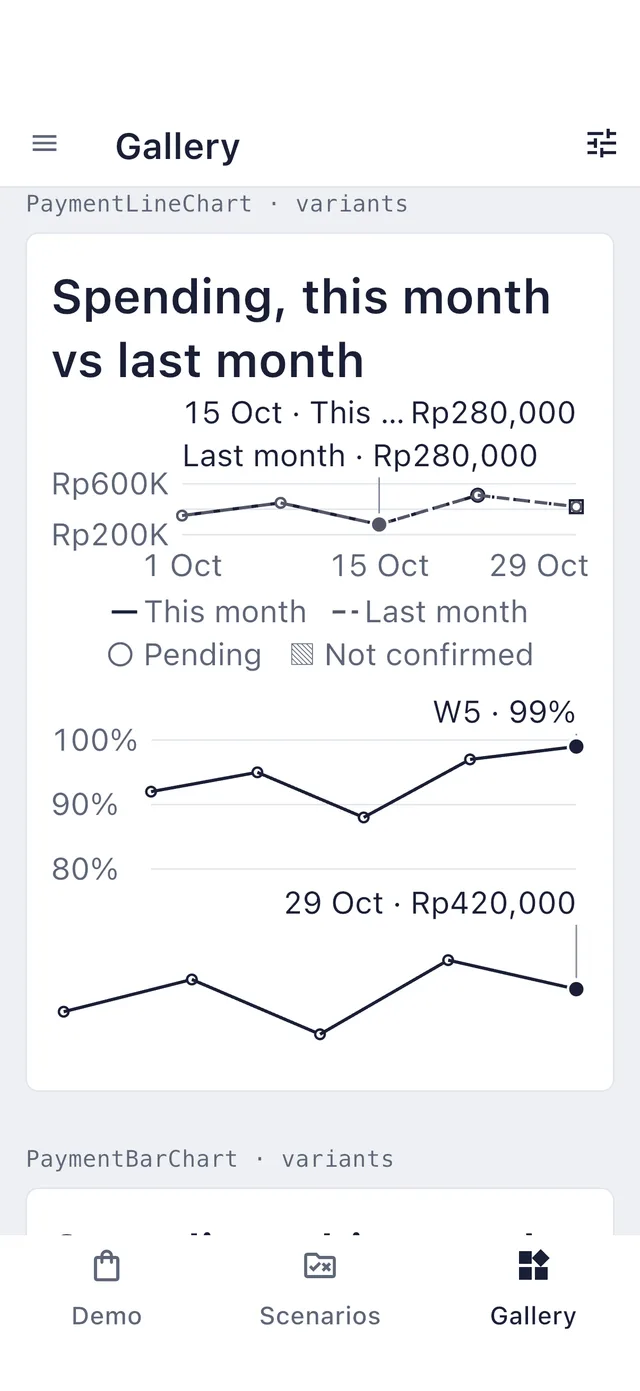
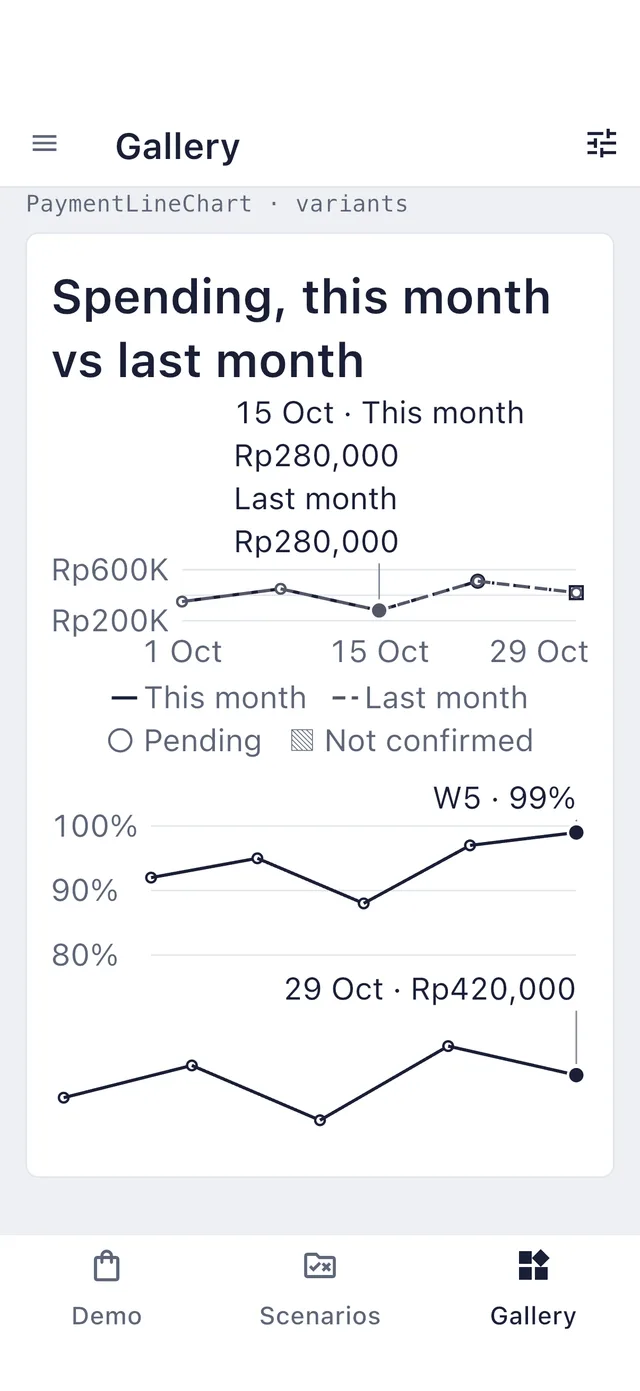
docs: D58 note, changelog and chart captures for the stacked readout (#78)
Records the stacked readout and the ChartModule slot growth (a deliberate
exception to #58-3) in decisions.md under a new UI review follow-ups
subsection, adds the changelog entry and its site mirror, updates the
line, bar and ChartModule pages, and retakes the line and bar chart
variants captures (light, dark, 200) on iPhone 16 Pro.

diff --git a/docs/decisions.md b/docs/decisions.md
@@ -603,3 +603,5 @@ Problems found in the review are recorded as issues before any work: #45–#50, 
 - **D59/D62 implementation note: one footer rule for the action bar (#79).** The P7c sweep showed the iPad checkout's "Tinjau pembayaran" full width while every other pinned footer put its hug buttons at the end edge. `ViewFooter`'s test moved into an internal `footerStacks(context, width)` in `view_frame.dart` (stack when the footer is narrower than 600 dp or text is large), and `ViewFooter` calls it unchanged. The width is the footer's available content width after its padding, not the window: with the default 16 dp gutters a 600–631 dp window still stacks and hugging starts at a 632 dp window, the same as `ViewFooter`. `PaymentActionBar` asks it only when it has no `total`, from a `LayoutBuilder` inside `PinnedFooter`, so the width it tests is the 640 dp column, not the window. Stacked, the action is laid out as before. Wide, it sits at `AlignmentDirectional.centerEnd`: a `PaymentButton` through `hugButton` (as `ViewFooter` does, keeping its key and the 112 dp minimum), any other widget at its intrinsic width with the same 112 dp minimum. The `Align` takes `heightFactor: 1`: a `Scaffold` offers its bottom bar the full height, so without it the bar filled the window and the body above got none; the example's wide-checkout test caught it, and the kit test now checks the bar's 72 dp height. A bar with a `total` keeps its own layout (a row at normal text on every width, stacked at large text), so phones with a total are unchanged. Large text on a wide window stays full width, as `ViewFooter` does. Not changed: from 872 dp the example's checkout body widens to 1040 dp beside the order context while the bar keeps the 640 dp column; that predates this note.
 - **D56 implementation note: a button's icon on its label's first line (#80).** `PaymentButton` with an `icon` lays out through `FirstLineRow`, which gains an internal `hug` mode: the text gets loose constraints and the row sizes to its content, so it works inside the button's centring, inside `IntrinsicWidth` and with an unbounded width. The label uses `TextWidthBasis.longestLine` when there is an icon, so a wrapped label hugs its longest line and icon and label stay one centred group, with the icon beside the first line. The gap is `related` (8 dp), as before. Icon size: medium and large buttons use `PaymentIconSize.medium`, the existing row-icon token, 20 dp at 1× and scaling with the text up to 1.6× (32 dp at 200%). That keeps the icon inside the 40 dp first line at 200%, so the button keeps its height and its 48 dp target, and it reads as part of the label rather than a 1× glyph beside two large lines. Small buttons keep 16 dp. Buttons without an icon keep the old `Row`. At 1× the geometry is unchanged (locked by a test); at 2× the icon is 12 dp wider, so `button_guard_test`'s 2× table moves the label 6 dp.
 - **Example app bar title at 200% (#80).** The authorize step's title is the example's Material `AppBar` title, not a kit header, so the fix is in `flow_screen.dart`. `AppBar` caps its title at 1.34× text and lays it out on one line with an ellipsis, so at 200% on an iPhone SE "Konfirmasi pembayaran" became "Konfirmasi pe…". The example now measures the title on one line (a `TextPainter` with the bar's title style at the clamped scale) against the window minus the 56 dp back button, 48 dp per action and the two 16 dp title gaps. When it doesn't fit, the title gets `maxLines: 2` and the bar grows by one title line (56 + 32 dp at 200%); otherwise the bar keeps 56 dp. Wrapping was chosen over a shorter title, which would change the step's name only at large text. Breaks fall between words, as the D59a/P7a header rule asks: every step title is one or two words, and each word fits the room on a 375 pt phone. The widget test runs at 484 dp because the test font's glyphs are an em wide; at 375 dp even "pembayaran" alone would not fit in that font.
+- **Chart readout stacks when a series name and value don't fit (D58 implementation note, #78).** At 200% text the multi-series readout cut the series name to "This …", so the value no longer said which series it belonged to. Now, when any period's series name (with the period on the first line) and value don't fit on one line in the plot width, every readout line stacks: the name on top, the value under it, in tabular figures. The name wraps to at most two lines and is never ellipsized within them; only a name longer than two lines at the plot width would end in an ellipsis. The fit is measured with `TextPainter` at the readout's clamped scale (≤ 1.5×), the caption style and the plot width the label is laid out in, and the band takes the worst case over every period, so rest, tap and drag never change its height. A single-series readout keeps its one line, and a chart where every period's line fits is unchanged. The gallery's 1× two-series charts do stack: their rest period fits, but selecting the pending 22 Oct ("22 Oct · This month · Rp510,000 · Pending") cut the name on `main`, and the band must hold the worst case. The label still sits over its column and stays inside the plot, as before.
+- **Module growth, a deliberate exception to #58-3.** A stacked band of two series needs four or more caption lines (27 dp each at 1.5×) instead of two. In `ChartModule`'s 180 dp slot at 200%, with the legend and the pending key under the plot, that would have left the plot 0 dp tall. So the module's plot slot grows by exactly the lines the stacked readout adds beyond one per series, and the plot keeps the height a one-line band gives it. The chart reports that extra height through a private scope, measured at the slot's width; a chart in a host's fixed `SizedBox` outside `ChartModule` keeps its height and gives the band the room. This is the only case where a ready chart is taller than the loading, empty and error states, at any text size, and it applies only when the readout stacks.

diff --git a/website/src/content/docs/reference/changelog.md b/website/src/content/docs/reference/changelog.md
@@ -11,6 +11,7 @@ Copied verbatim from `CHANGELOG.md`. Version 0.1.0 is unreleased and not publish
 - **Button icon on the first line (D56, #80).** When a `PaymentButton`'s label wraps at large text, its `icon` sits beside the label's first line instead of the middle of the label, and the icon and label stay one centred group. Medium and large buttons scale the icon with the text up to 1.6×: 20 dp at 1×, 32 dp at 200%, inside the 40 dp first line, so the button keeps its height and 48 dp target. Small buttons keep 16 dp. Normal text is unchanged. No API change. **Migration:** golden tests of a button with an icon above 1× text see the larger icon, and the centred label moves by half the difference (6 dp at 200%).
 - **Example: step titles at 200% (#80).** A step title that doesn't fit on one line of the app bar, such as "Konfirmasi pembayaran" at 200% on an iPhone SE, wraps to two lines in a taller bar instead of ending in "…". Titles that fit keep the 56 dp bar.
 - **Docs: platform scope (D64).** Phase 1 targets iOS on iPhone and iPad, and Android phones and tablets; tablets use the existing wide-screen rules (D45, D53, D55, D59, D62). Web is documentation only (the docs site and its `/play/` gallery preview), not a product target, and desktop is out of scope. Recorded in the PRD, `docs/decisions.md`, compatibility, the README and the design decisions page. The UI review so far was verified on iOS; an Android phone and tablet capture, review and fix pass is planned next. No API change.
+- **Chart readout keeps the full series name (D58, #78).** When a multi-series line or bar chart's series name and value don't fit on one line, as at 200% text on a phone, the value label shows each series name with its value under it, in tabular figures. The name wraps to a second line instead of ending in "…", so the value still says which series it belongs to. A pending or unconfirmed period's longer value can make it stack at 1× too. The band height is the worst case over every period, so selecting another period never moves the chart; a chart where every period's line fits is unchanged. Inside `ChartModule` the plot area grows by the extra lines, so the plot keeps its height; that is the one case where a ready chart is taller than its loading state.
 
 ## UI review P7d (2026-11-01)
 

diff --git a/CHANGELOG.md b/CHANGELOG.md
@@ -4,6 +4,7 @@
 - **Button icon on the first line (D56, #80).** When a `PaymentButton`'s label wraps at large text, its `icon` sits beside the label's first line instead of the middle of the label, and the icon and label stay one centred group. Medium and large buttons scale the icon with the text up to 1.6×: 20 dp at 1×, 32 dp at 200%, inside the 40 dp first line, so the button keeps its height and 48 dp target. Small buttons keep 16 dp. Normal text is unchanged. No API change. **Migration:** golden tests of a button with an icon above 1× text see the larger icon, and the centred label moves by half the difference (6 dp at 200%).
 - **Example: step titles at 200% (#80).** A step title that doesn't fit on one line of the app bar, such as "Konfirmasi pembayaran" at 200% on an iPhone SE, wraps to two lines in a taller bar instead of ending in "…". Titles that fit keep the 56 dp bar.
 - **Docs: platform scope (D64).** Phase 1 targets iOS on iPhone and iPad, and Android phones and tablets; tablets use the existing wide-screen rules (D45, D53, D55, D59, D62). Web is documentation only (the docs site and its `/play/` gallery preview), not a product target, and desktop is out of scope. Recorded in the PRD, `docs/decisions.md`, compatibility, the README and the design decisions page. The UI review so far was verified on iOS; an Android phone and tablet capture, review and fix pass is planned next. No API change.
+- **Chart readout keeps the full series name (D58, #78).** When a multi-series line or bar chart's series name and value don't fit on one line, as at 200% text on a phone, the value label shows each series name with its value under it, in tabular figures. The name wraps to a second line instead of ending in "…", so the value still says which series it belongs to. A pending or unconfirmed period's longer value can make it stack at 1× too. The band height is the worst case over every period, so selecting another period never moves the chart; a chart where every period's line fits is unchanged. Inside `ChartModule` the plot area grows by the extra lines, so the plot keeps its height; that is the one case where a ready chart is taller than its loading state.
 
 ## UI review P7d (2026-11-01)
 
